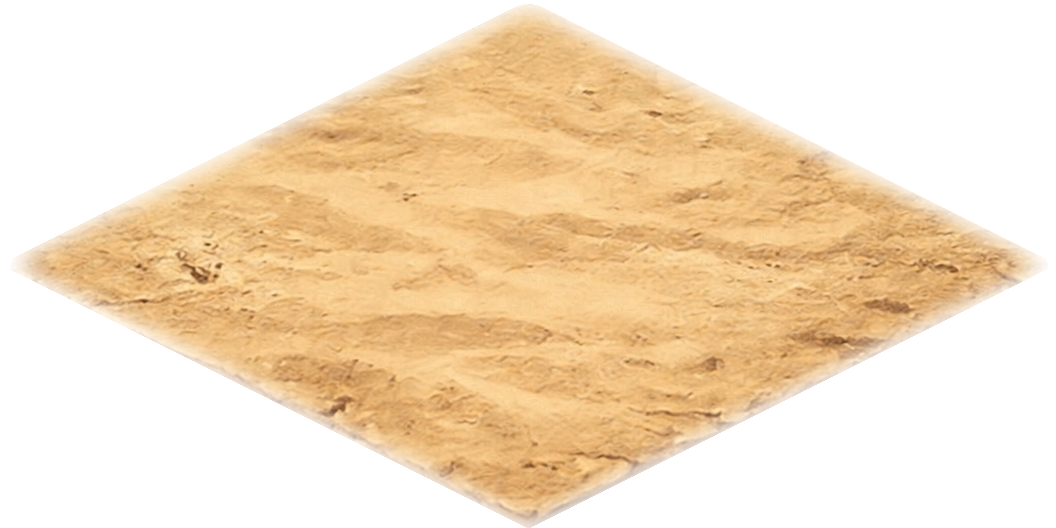
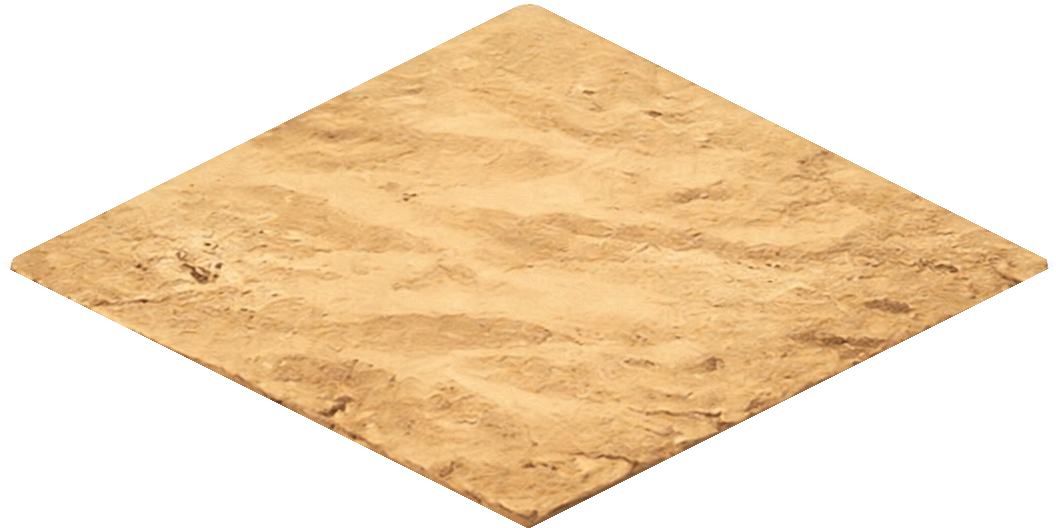
biomes: remove all post-processing from painted floor pipeline
Strip every transform that was being applied to the painted desert
tiles between the artist's source and the in-game render so the user
can evaluate the raw painted look:

Image-side (re-extracted PNGs from the original 1774x887 sources):
- DROPPED: 10 px gaussian alpha edge feather (hard diamond mask only).
- DROPPED: HSV-based sand detection / colour normalization passes.
- DROPPED: surgical wet-patch fix on tile 5 (the cool/teal patch
  comes back — visible as a small grey-blue area on that variant).
- KEPT: tile centre detection (find each iso top-face by max-painted-
  width row) and the hard 1056x528 diamond mask. These are
  necessary just to crop the painted iso top face out of the source
  image and clip the prism's 3D thickness/side faces.

Renderer-side (drawMap.ts):
- DROPPED: floorBase Graphics layer + PAINTED_FLOOR_BASE constant.
  No more flat sand diamond drawn under each painted sprite. With
  the hard-edged diamond mask + overscan 1.0, adjacent painted
  tiles butt up exactly so there are no transparent gaps to fill.
- KEPT: per-tile painted Sprite mount, hash-driven variant pick,
  fallback to procedural when the texture isn't loaded.

Combined with the earlier ATMOSPHERE_ENABLED = false toggle, the
painted floors now render exactly as the artist authored them — no
mood pass, no edge softening, no colour grading, no asset
post-processing. Procedural fallback (walls / cover / non-painted
floors) is unchanged.

250/250 tests pass; build clean.
[…]

Changed region(s): [[0.0, 0.0, 1.0, 1.0]]

diff --git a/src/game/rendering/map/drawMap.ts b/src/game/rendering/map/drawMap.ts
@@ -27,22 +27,9 @@ const PAINTED_FLOOR_SOURCE_H = 528;
  * pixels, with no overlap). Larger values show more painted detail
  * per tile and overlap into neighbouring tiles via the alpha feather
  * — trades a softer "continuous painted ground" read for some
- * variant-distinctiveness loss at the overlap zones. 1.5 reads as a
- * painted floor with visible per-tile texture; 1.0 reads as a tiled
- * grid; 2.0+ blurs into a single ambient sand wash.
+ * variant-distinctiveness loss at the overlap zones.
  */
 const PAINTED_FLOOR_OVERSCAN = 1.0;
-
-/**
- * Bright sand colour used for the flat-fill diamond UNDER painted
- * floor sprites — matched to the painted assets' median sand colour
- * so the alpha-feathered tile edges fade into the same tone the
- * painted texture is at, rather than the procedural palette's
- * darker tan (which made each painted tile read as a hot spot
- * against a dimmer base). Keep in sync with the painted asset
- * library's average sand value; sampled at extraction time.
- */
-const PAINTED_FLOOR_BASE = 0xebc183;
 
 /**
  * Universal painted-light pass: layer a lighter NE half (sun-cast) +
@@ -135,19 +122,16 @@ export function drawMap(layer: Container, map: GridMap) {
   const biome = biomeFor(map.tileset);
   const pal = biome.palette;
   // Layer order (bottom → top):
-  //   1. floorBase — flat sand diamonds drawn UNDER painted floor
-  //      sprites so the alpha-feathered tile gaps fall through to
-  //      sand colour instead of the Pixi clear background.
-  //   2. floorSprites — painted iso tile textures.
-  //   3. g — every other procedural element: walls, cover silhouettes,
-  //      cast shadows, extenders, decals, props, edge feathering.
-  // For tiles that DON'T render a painted sprite (walls, cover, or
-  // when the texture failed to load), the full procedural path runs
-  // inside `g` as before.
-  const floorBase = new Graphics();
+  //   1. floorSprites — painted iso tile textures (when the biome
+  //      ships them and the preload landed).
+  //   2. g — every other procedural element: walls, cover silhouettes,
+  //      cast shadows, extenders, decals, props, edge feathering, AND
+  //      the procedural diamond fallback for floor tiles whose
+  //      painted texture didn't load. Sits ABOVE the painted floors
+  //      so cover/props occlude correctly.
   const floorSprites = new Container();
   const g = new Graphics();
-  layer.addChild(floorBase, floorSprites, g);
+  layer.addChild(floorSprites, g);
 
   drawMapEdges(g, map, pal);
 
@@ -172,43 +156,17 @@ export function drawMap(layer: Container, map: GridMap) {
       const fill = fillForKind(t.kind, variant, pal);
 
       // Painted-floor branch: when the biome ships painted floor
-      // textures and the preload landed, mount a Sprite for floor
-      // tiles INSTEAD of the procedural diamond + sun-cast + grain
-      // + edge-blend combo. Walls + cover keep the procedural path.
-      // Sprites render at PAINTED_FLOOR_OVERSCAN × the iso footprint
-      // so each painted tile shows more of its hand-painted detail.
-      // The soft alpha feather around each tile's diamond means the
-      // overscan overlaps cleanly into neighbouring tiles instead of
-      // tiling cleanly at the iso edge — gives the floor a more
-      // continuous painted-ground read.
-      //
-      // We STILL draw a flat-fill sand diamond at the iso footprint
-      // first — without that base the alpha-feathered painted Sprite
-      // shows the Pixi background through the transparent gaps near
-      // each tile's edges. The base means a tile that fades toward
-      // transparent at its corners falls through to sand-coloured
-      // ground rather than the dark Pixi clear colour.
+      // textures and the preload landed, mount a raw Sprite for the
+      // floor tile and skip every procedural pass for that cell. The
+      // painted asset is hard-edge diamond-masked + iso-aspect
+      // matched, so adjacent tiles butt up exactly without needing a
+      // base layer. Walls + cover + non-painted floors keep the full
+      // procedural path through `g`.
       let paintedFloor = false;
       if (t.kind === 'floor' && biome.paintedFloors && biome.paintedFloors.length > 0) {
         const idx = tileHash % biome.paintedFloors.length;
         const tex = spriteCache.get(biome.paintedFloors[idx].cacheKey);
         if (tex) {
-          // Pure flat-fill sand diamond — no dark stroke outline, no
-          // sun-cast/shadow split. The painted texture has its own
-          // lighting baked in; layering procedural sun-cast underneath
-          // creates visible dark-band artifacts at the alpha-feathered
-          // edges where the base peeks through. The dark diamond
-          // stroke (pal.floorStroke at 0.75 alpha) was the real source
-          // of the "muddy" cast — every painted floor tile had a
-          // visible dark outline around it. Pure flat fill behind the
-          // sprite + the texture's own painted edges = clean read.
-          floorBase.poly([
-            p.x, p.y - TILE_H / 2,
-            p.x + TILE_W / 2, p.y,
-            p.x, p.y + TILE_H / 2,
-            p.x - TILE_W / 2, p.y,
-          ]).fill({ color: PAINTED_FLOOR_BASE, alpha: 1 });
-          // Painted Sprite on top.
           const s = new Sprite(tex);
           s.anchor.set(0.5, 0.5);
           const scale = PAINTED_FLOOR_OVERSCAN;
